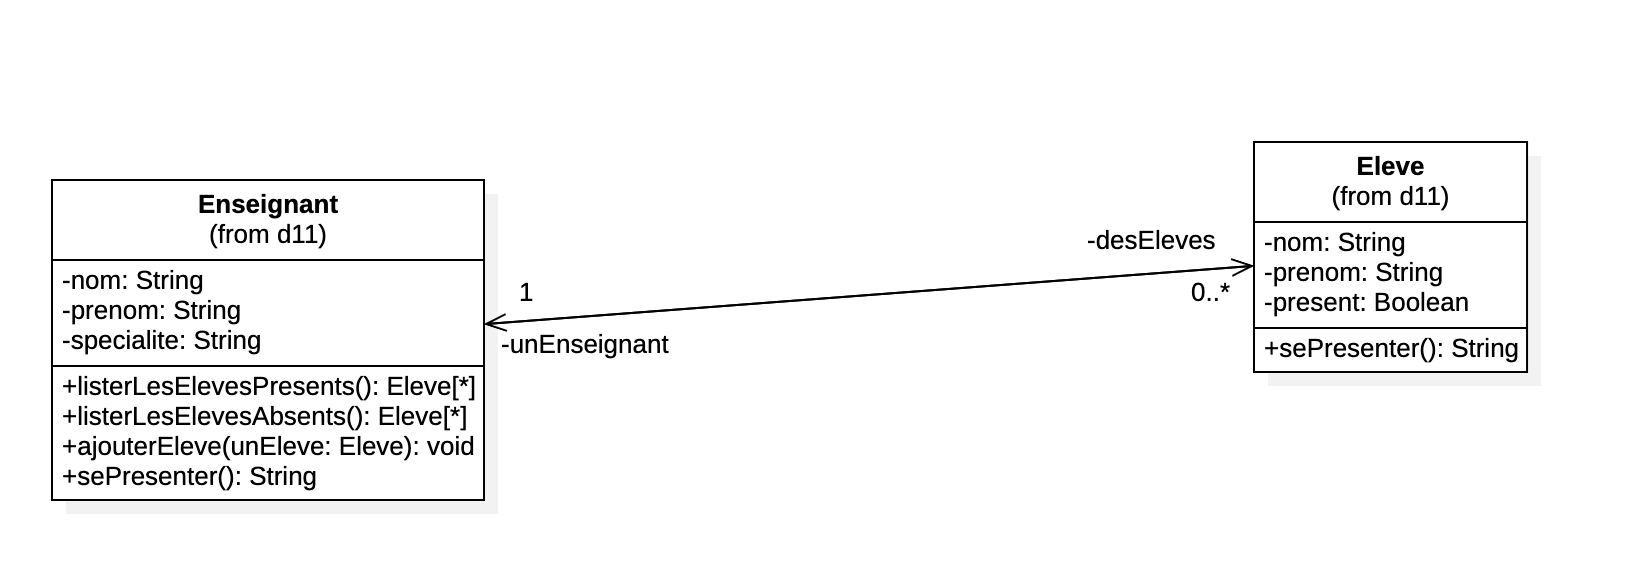
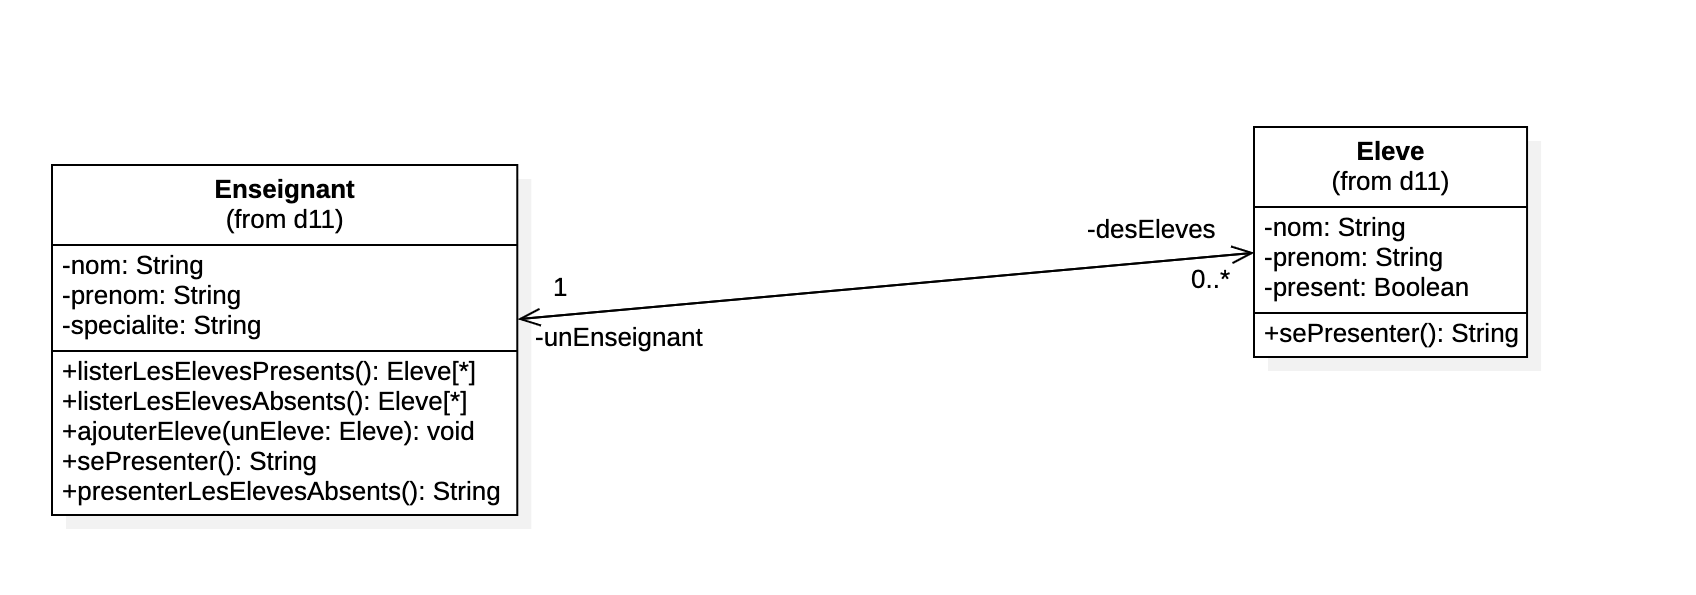
ajout cas

Changed region(s): [[0.0311, 0.1862, 0.9335, 0.869]]

diff --git a/.vuepress/public/urdle/11/questions.html b/.vuepress/public/urdle/11/questions.html
@@ -2,8 +2,11 @@
     <li>Écrire le code (ou pseudo-code) permettant de définir les propriétés de la classe <b>Enseignant</b></li>
     <li>Écrire le code (ou pseudo-code) permettant de définir les propriétés de la classe <b>Etudiant</b></li>
     <li>Écrire un constructeur pertinent de la classe <b>Enseignant</b></li>
-    <li>Écrire le code des méthodes <b>ajouterEleve()</b> de la classe <b>Enseignant</b></li>
     <li>Écrire le code des méthodes <b>listerLesElevesAbsent()</b> de la classe <b>Enseignant</b></li>
-    <li>Écrire le code des méthodes <b>listerLesElevesPresent()</b> de la classe <b>Enseignant</b></li>
+    <li>Écrire le code des méthodes <b>presenterLesElevesAbsent()</b> de la classe <b>Enseignant</b></li>
+    <ul>
+        <li>La méthode doit appeler la méthode <b>sePresenter()</b> de chaque éleve absent</li>
+    </ul>
     <li>Écrire le code des méthodes <b>sePresenter()</b> de la classe <b>Enseignant</b> et de la classe <b>Eleve</b></li>
+    <li>Écrire le code des méthodes <b>ajouterEleve()</b> de la classe <b>Enseignant</b></li>
 </ul>
